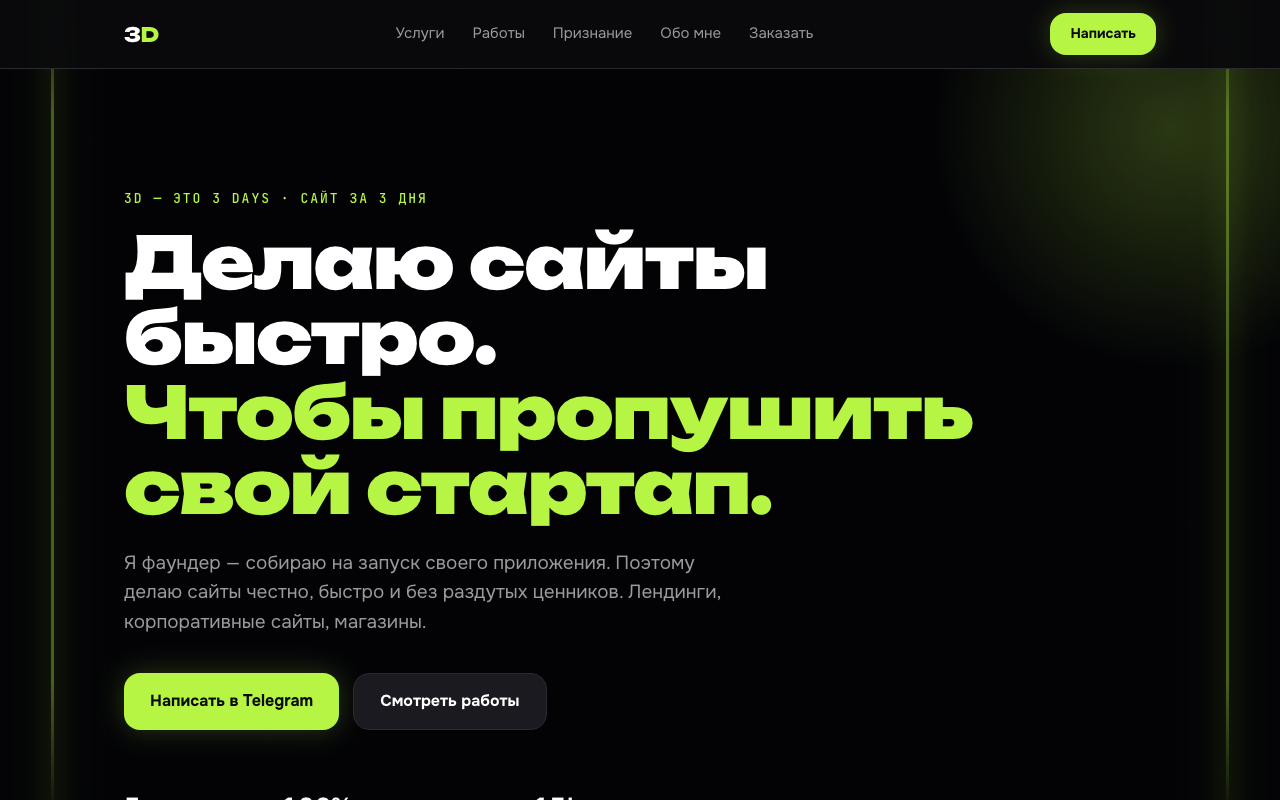
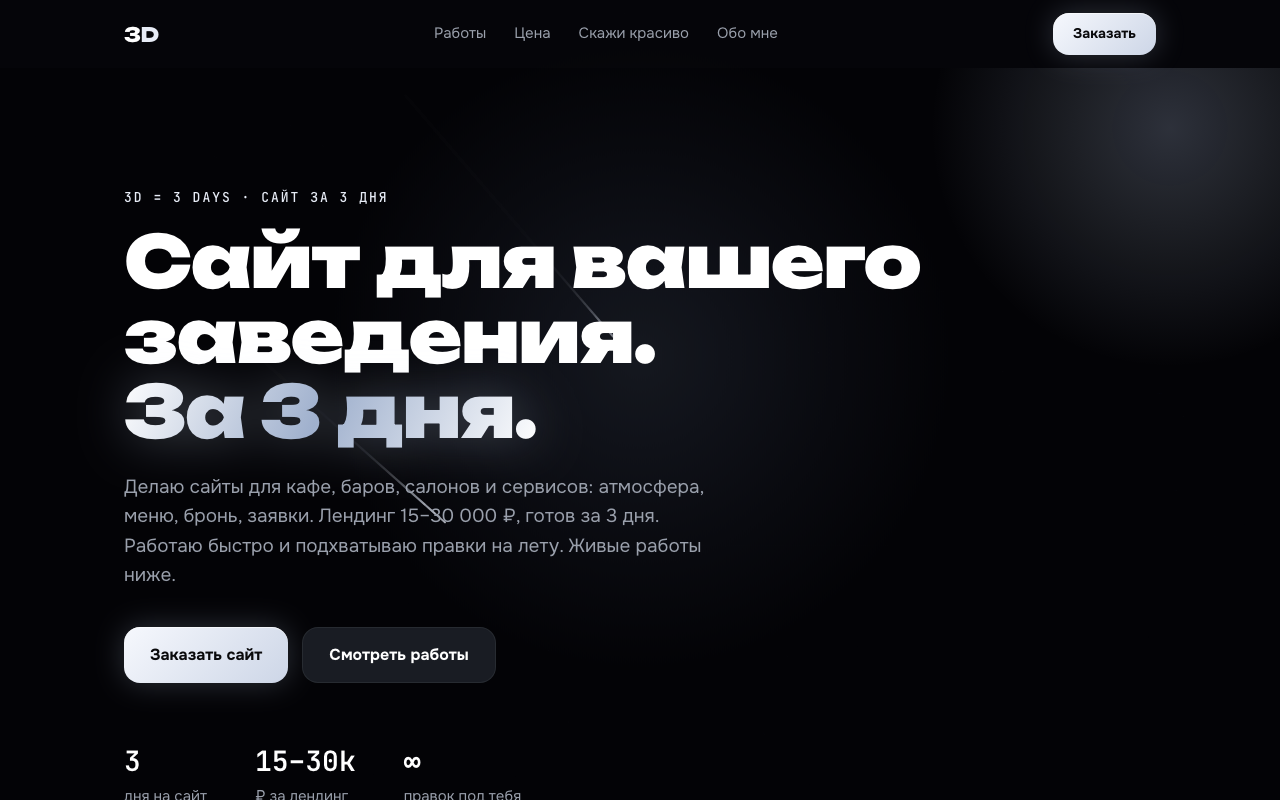
Авто-сохранение контакта из Telegram + актуальный баннер
Убрал шаг с вопросом про контакт: бриф из 4 шагов, контакт берётся
автоматически из профиля Telegram (кликабельная ссылка). Баннер /start
заменён на текущий тёмный дизайн сайта.

diff --git a/src/bot.js b/src/bot.js
@@ -69,15 +69,22 @@ const TYPES = {
 // Второй вопрос подстраивается под формат
 const ABOUT_Q = {
   say:
-    '<b>② Шаг 2 из 5</b>\nРасскажи про неё: как зовут, какой повод и что хочешь сказать. ' +
+    '<b>② Шаг 2 из 4</b>\nРасскажи про неё: как зовут, какой повод и что хочешь сказать. ' +
     'Можно пару строк — соберу красиво.',
-  _default: '<b>② Шаг 2 из 5</b>\nРасскажи в двух словах: чем занимаешься и что за сайт хочешь?',
+  _default: '<b>② Шаг 2 из 4</b>\nРасскажи в двух словах: чем занимаешься и что за сайт хочешь?',
 };
 
 // ── Помощники ───────────────────────────────────────────────────
 function userTag(from) {
   if (from.username) return '@' + from.username;
   return `${from.first_name || ''} ${from.last_name || ''}`.trim() || `id${from.id}`;
+}
+
+// Кликабельная ссылка на Telegram человека: @ник или deep-link по id.
+function userLink(from) {
+  if (from.username) return '@' + from.username;
+  const name = `${from.first_name || ''} ${from.last_name || ''}`.trim() || 'профиль';
+  return `<a href="tg://user?id=${from.id}">${name}</a>`;
 }
 
 async function sendBrief(ctx) {
@@ -242,7 +249,7 @@ bot.callbackQuery('brief:start', async (ctx) => {
   } catch {
     /* кнопка уже убрана — не страшно */
   }
-  await ctx.reply('<b>① Шаг 1 из 5</b>\nЧто за сайт нужен?', { parse_mode: 'HTML', reply_markup: kb });
+  await ctx.reply('<b>① Шаг 1 из 4</b>\nЧто за сайт нужен?', { parse_mode: 'HTML', reply_markup: kb });
 });
 
 bot.callbackQuery(/^type:(.+)$/, async (ctx) => {
@@ -271,18 +278,10 @@ bot.callbackQuery('visual:skip', async (ctx) => {
 // ── Готово с фото ───────────────────────────────────────────────
 bot.callbackQuery('photos:done', async (ctx) => {
   await ctx.answerCallbackQuery();
-  ctx.session.step = 'contact';
   const n = ctx.session.data.photos.length;
   await ctx.editMessageText(`✅ Фото: ${n} шт`);
-  await ctx.reply(
-    `<b>⑤ Шаг 5 из 5</b>\nКак с тобой связаться? Оставь @ник или телефон.\n\nМожно просто нажать — возьму твой ник ${userTag(ctx.from)}.`,
-    { parse_mode: 'HTML', reply_markup: new InlineKeyboard().text(`Взять ${userTag(ctx.from)}`, 'contact:self') },
-  );
-});
-
-bot.callbackQuery('contact:self', async (ctx) => {
-  await ctx.answerCallbackQuery();
-  ctx.session.data.contact = userTag(ctx.from);
+  // Контакт берём автоматически из Telegram — лишний вопрос не задаём.
+  ctx.session.data.contact = userLink(ctx.from);
   await finish(ctx);
 });
 
@@ -293,9 +292,9 @@ function goToPhotos(ctx) {
 async function askPhotos(ctx) {
   const isSay = ctx.session.data.type === TYPES.say;
   const q = isSay
-    ? '<b>④ Шаг 4 из 5</b>\nСкинь её фото (1–2) — добавлю на сайт-признание. Как закончишь — жми «Готово». ' +
+    ? '<b>④ Шаг 4 из 4</b>\nСкинь её фото (1–2) — добавлю на сайт-признание. Как закончишь — жми «Готово». ' +
       'Нет под рукой — тоже жми «Готово», пришлёшь потом.'
-    : '<b>④ Шаг 4 из 5</b>\nСкинь фото: логотип, фото бизнеса или скрины сайтов, которые нравятся. ' +
+    : '<b>④ Шаг 4 из 4</b>\nСкинь фото: логотип, фото бизнеса или скрины сайтов, которые нравятся. ' +
       'Можно несколько. Как закончишь — жми «Готово».';
   await ctx.reply(q, { parse_mode: 'HTML', reply_markup: new InlineKeyboard().text('Готово ✅', 'photos:done') });
 }
@@ -355,7 +354,7 @@ bot.on('message:text', async (ctx) => {
     case 'type_other':
       s.data.type = text;
       s.step = 'about';
-      await ctx.reply('<b>② Шаг 2 из 5</b>\nРасскажи в двух словах: чем занимаешься и что за сайт хочешь?', { parse_mode: 'HTML' });
+      await ctx.reply('<b>② Шаг 2 из 4</b>\nРасскажи в двух словах: чем занимаешься и что за сайт хочешь?', { parse_mode: 'HTML' });
       break;
     case 'about':
       s.data.about = text;
@@ -363,8 +362,8 @@ bot.on('message:text', async (ctx) => {
       {
         const isSay = s.data.type === TYPES.say;
         const q = isSay
-          ? '<b>③ Шаг 3 из 5</b>\nКакой настрой? Нежно, романтично, со звёздами, по-дружески — или жми «На твой вкус».'
-          : '<b>③ Шаг 3 из 5</b>\nКакой стиль хочешь? Строго, ярко, тёмный, минимал — любые мысли.';
+          ? '<b>③ Шаг 3 из 4</b>\nКакой настрой? Нежно, романтично, со звёздами, по-дружески — или жми «На твой вкус».'
+          : '<b>③ Шаг 3 из 4</b>\nКакой стиль хочешь? Строго, ярко, тёмный, минимал — любые мысли.';
         await ctx.reply(q, {
           parse_mode: 'HTML',
           reply_markup: new InlineKeyboard().text(isSay ? 'На твой вкус' : 'Пропустить', 'visual:skip'),
@@ -375,10 +374,6 @@ bot.on('message:text', async (ctx) => {
       s.data.visual = text;
       goToPhotos(ctx);
       await askPhotos(ctx);
-      break;
-    case 'contact':
-      s.data.contact = text;
-      await finish(ctx);
       break;
     default:
       await ctx.reply('Напиши /start, чтобы оставить заявку на сайт 🚀');